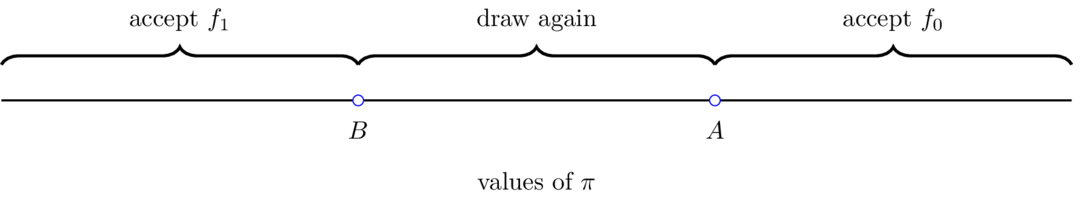
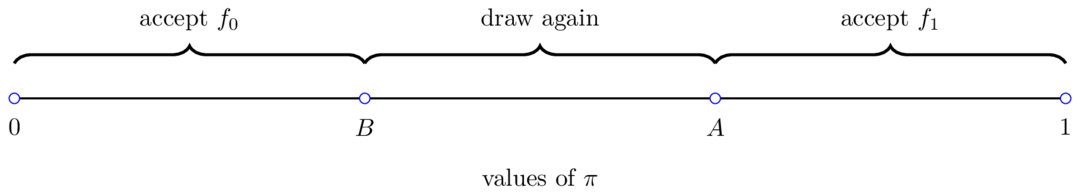
update

diff --git a/lectures/_static/lecture_specific/wald_friedman_2/wald_dec_rule.tex b/lectures/_static/lecture_specific/wald_friedman_2/wald_dec_rule.tex
@@ -17,15 +17,19 @@
     \draw[thick] (0, 0)  -- (3, 0) node[below] {};
     %curly bracket
     \draw [decorate, very thick] (s0) -- (s1)
-        node [midway, anchor=south,  outer sep=10pt]{accept $f_1$};
+        node [midway, anchor=south,  outer sep=10pt]{accept $f_0$};
     \draw [decorate, very thick] (s1) -- (s2)
         node [midway, anchor=south, outer sep=10pt]{draw again};
     \draw [decorate, very thick] (s2) -- (s3)
-        node [midway, anchor=south, outer sep=10pt]{accept $f_0$};
-    \node[circle, draw, thin, blue, fill=white!10, scale=0.45] at (a1){};
-    \node[below, outer sep=5pt] at (a1){$B$};
-    \node[circle, draw, thin, blue, fill=white!10, scale=0.45] at (a2){};
-    \node[below, outer sep=5pt] at (a2){$A$};
+        node [midway, anchor=south, outer sep=10pt]{accept $f_1$};
+        \node[circle, draw, thin, blue, fill=white!10, scale=0.45] at (a0){};
+        \node[below, outer sep=5pt] at (a0){$0$};
+        \node[circle, draw, thin, blue, fill=white!10, scale=0.45] at (a1){};
+        \node[below, outer sep=5pt] at (a1){$B$};
+        \node[circle, draw, thin, blue, fill=white!10, scale=0.45] at (a2){};
+        \node[below, outer sep=5pt] at (a2){$A$};
+        \node[circle, draw, thin, blue, fill=white!10, scale=0.45] at (a3){};
+        \node[below, outer sep=5pt] at (a3){$1$};
     \node[below, outer sep=25pt] at (1.5, 0){values of $\pi$};
 \end{tikzpicture}
 

diff --git a/lectures/wald_friedman_2.md b/lectures/wald_friedman_2.md
@@ -102,19 +102,19 @@ The decision maker begins  with a prior probability
 
 $$
 \pi_{-1} =
-\mathbb P \{ f = f_0 \mid \textrm{ no observations} \} \in (0, 1)
+\mathbb P \{ f = f_1 \mid \textrm{ no observations} \} \in (0, 1)
 $$
 
-After observing $k+1$ observations $z_k, z_{k-1}, \ldots, z_0$, he updates his personal probability that the observations are described by distribution $f_0$  to
+After observing $k+1$ observations $z_k, z_{k-1}, \ldots, z_0$, he updates his personal probability that the observations are described by distribution $f_1$  to
 
 $$
-\pi_k = \mathbb P \{ f = f_0 \mid z_k, z_{k-1}, \ldots, z_0 \}
+\pi_k = \mathbb P \{ f = f_1 \mid z_k, z_{k-1}, \ldots, z_0 \}
 $$
 
 which is calculated recursively by applying Bayes' law:
 
 $$
-\pi_{k+1} = \frac{ \pi_k f_0(z_{k+1})}{ \pi_k f_0(z_{k+1}) + (1-\pi_k) f_1 (z_{k+1}) },
+\pi_{k+1} = \frac{ \pi_k f_1(z_{k+1})}{ (1-\pi_k) f_0(z_{k+1}) + \pi_k f_1 (z_{k+1}) },
 \quad k = -1, 0, 1, \ldots
 $$
 
@@ -122,11 +122,11 @@ After observing $z_k, z_{k-1}, \ldots, z_0$, the decision-maker believes
 that $z_{k+1}$ has probability distribution
 
 $$
-f_{{\pi}_k} (v) = \pi_k f_0(v) + (1-\pi_k) f_1 (v) ,
+f_{{\pi}_k} (v) = (1-\pi_k) f_0(v) + \pi_k f_1 (v) ,
 $$
 
 which  is a mixture of distributions $f_0$ and $f_1$, with the weight
-on $f_0$ being the posterior probability that $f = f_0$ [^f1].
+on $f_1$ being the posterior probability that $f = f_1$ [^f1].
 
 To  illustrate such a distribution, let's inspect some mixtures of beta distributions.
 
@@ -160,7 +160,7 @@ axes[0].plot(grid, f1(grid), lw=2, label="$f_1$")
 
 axes[1].set_title("Mixtures")
 for π in 0.25, 0.5, 0.75:
-    y = π * f0(grid) + (1 - π) * f1(grid)
+    y = (1 - π) * f0(grid) + π * f1(grid)
     axes[1].plot(y, lw=2, label=fr"$\pi_k$ = {π}")
 
 for ax in axes:
@@ -212,9 +212,9 @@ Before proceeding,  let's try to guess what an optimal decision rule might look 
 
 Suppose at some given point in time that $\pi$ is close to 1.
 
-Then our prior beliefs and the evidence so far point strongly to $f = f_0$.
+Then our prior beliefs and the evidence so far point strongly to $f = f_1$.
 
-If, on the other hand, $\pi$ is close to 0, then $f = f_1$ is strongly favored.
+If, on the other hand, $\pi$ is close to 0, then $f = f_0$ is strongly favored.
 
 Finally, if $\pi$ is in the middle of the interval $[0, 1]$, then we are confronted with more uncertainty.
 
@@ -243,7 +243,7 @@ With some thought, you will agree that $J$ should satisfy the Bellman equation
 J(\pi) =
     \min
     \left\{
-        (1-\pi) L_0, \; \pi L_1, \;
+        \pi L_0, \; (1-\pi) L_1, \;
         c + \mathbb E [ J (\pi') ]
     \right\}
 ```
@@ -251,13 +251,13 @@ J(\pi) =
 where $\pi'$ is the random variable defined by Bayes' Law
 
 $$
-\pi' = \kappa(z', \pi) = \frac{ \pi f_0(z')}{ \pi f_0(z') + (1-\pi) f_1 (z') }
+\pi' = \kappa(z', \pi) = \frac{ \pi f_1(z')}{ (1-\pi) f_0(z') + \pi f_1 (z') }
 $$
 
 when $\pi$ is fixed and $z'$ is drawn from the current best guess, which is the distribution $f$ defined by
 
 $$
-f_{\pi}(v) = \pi f_0(v) + (1-\pi) f_1 (v)
+f_{\pi}(v) = (1-\pi) f_0(v) + \pi f_1 (v)
 $$
 
 In the Bellman equation, minimization is over three actions:
@@ -272,14 +272,14 @@ We can represent the  Bellman equation as
 :label: optdec
 
 J(\pi) =
-\min \left\{ (1-\pi) L_0, \; \pi L_1, \; h(\pi) \right\}
+\min \left\{ \pi L_0, \; (1-\pi) L_1, \; h(\pi) \right\}
 ```
 
 where $\pi \in [0,1]$ and
 
-- $(1-\pi) L_0$ is the expected loss associated with accepting
+- $\pi L_0$ is the expected loss associated with accepting
   $f_0$ (i.e., the cost of making a type II error).
-- $\pi L_1$ is the expected loss associated with accepting
+- $(1-\pi) L_1$ is the expected loss associated with accepting
   $f_1$ (i.e., the cost of making a type I error).
 - $h(\pi) :=  c + \mathbb E [J(\pi')]$; this is the continuation value; i.e.,
   the expected cost associated with drawing one more $z$.
@@ -287,21 +287,21 @@ where $\pi \in [0,1]$ and
 The optimal decision rule is characterized by two numbers $A, B \in (0,1) \times (0,1)$ that satisfy
 
 $$
-(1- \pi) L_0 < \min \{ \pi L_1, c + \mathbb E [J(\pi')] \}  \textrm { if } \pi \geq A
+(1- \pi) L_1 < \min \{ \pi L_0, c + \mathbb E [J(\pi')] \}  \textrm { if } \pi \leq B
 $$
 
 and
 
 $$
-\pi L_1 < \min \{ (1-\pi) L_0,  c + \mathbb E [J(\pi')] \} \textrm { if } \pi \leq B
+\pi L_0 < \min \{ (1-\pi) L_1,  c + \mathbb E [J(\pi')] \} \textrm { if } \pi \geq A
 $$
 
 The optimal decision rule is then
 
 $$
 \begin{aligned}
-\textrm { accept } f=f_0 \textrm{ if } \pi \geq A \\
-\textrm { accept } f=f_1 \textrm{ if } \pi \leq B \\
+\textrm { accept } f=f_1 \textrm{ if } \pi \geq A \\
+\textrm { accept } f=f_0 \textrm{ if } \pi \leq B \\
 \textrm { draw another }  z \textrm{ if }  B \leq \pi \leq A
 \end{aligned}
 $$
@@ -316,8 +316,8 @@ To make our computations manageable, using {eq}`optdec`, we can write the contin
 
 \begin{aligned}
 h(\pi) &= c + \mathbb E [J(\pi')] \\
-&= c + \mathbb E_{\pi'} \min \{ (1 - \pi') L_0, \pi' L_1, h(\pi') \} \\
-&= c + \int \min \{ (1 - \kappa(z', \pi) ) L_0, \kappa(z', \pi)  L_1, h(\kappa(z', \pi) ) \} f_\pi (z') dz'
+&= c + \mathbb E_{\pi'} \min \{ \pi' L_0, (1 - \pi') L_1, h(\pi') \} \\
+&= c + \int \min \{ \kappa(z', \pi) L_0, (1 - \kappa(z', \pi) ) L_1, h(\kappa(z', \pi) ) \} f_\pi (z') dz'
 \end{aligned}
 ```
 
@@ -327,7 +327,7 @@ The equality
 :label: funceq
 
 h(\pi) =
-c + \int \min \{ (1 - \kappa(z', \pi) ) L_0, \kappa(z', \pi)  L_1, h(\kappa(z', \pi) ) \} f_\pi (z') dz'
+c + \int \min \{ \kappa(z', \pi) L_0, (1 - \kappa(z', \pi) ) L_1, h(\kappa(z', \pi) ) \} f_\pi (z') dz'
 ```
 
 is a **functional equation** in an unknown function  $h$.
@@ -342,7 +342,7 @@ Thus, we iterate with an operator $Q$, where
 
 $$
 Q h(\pi) =
-c + \int \min \{ (1 - \kappa(z', \pi) ) L_0, \kappa(z', \pi)  L_1, h(\kappa(z', \pi) ) \} f_\pi (z') dz'
+c + \int \min \{ \kappa(z', \pi) L_0, (1 - \kappa(z', \pi) ) L_1, h(\kappa(z', \pi) ) \} f_\pi (z') dz'
 $$
 
 ## Implementation
@@ -410,8 +410,8 @@ class WaldFriedman:
 
         f0, f1 = self.f0, self.f1
 
-        π_f0, π_f1 = π * f0(z), (1 - π) * f1(z)
-        π_new = π_f0 / (π_f0 + π_f1)
+        π_f0, π_f1 = (1 - π) * f0(z), π * f1(z)
+        π_new = π_f1 / (π_f0 + π_f1)
 
         return π_new
 ```
@@ -444,12 +444,12 @@ def Q(h, wf):
         integral_f0, integral_f1 = 0, 0
         for m in range(mc_size):
             π_0 = κ(z0[m], π)  # Draw z from f0 and update π
-            integral_f0 += min((1 - π_0) * L0, π_0 * L1, h_func(π_0))
+            integral_f0 += min(π_0 * L0, (1 - π_0) * L1, h_func(π_0))
 
             π_1 = κ(z1[m], π)  # Draw z from f1 and update π
-            integral_f1 += min((1 - π_1) * L0, π_1 * L1, h_func(π_1))
+            integral_f1 += min(π_1 * L0, (1 - π_1) * L1, h_func(π_1))
 
-        integral = (π * integral_f0 + (1 - π) * integral_f1) / mc_size
+        integral = ((1 - π) * integral_f0 + π * integral_f1) / mc_size
 
         h_new[i] = c + integral
 
@@ -527,23 +527,31 @@ def find_cutoff_rule(wf, h):
     L0, L1 = wf.L0, wf.L1
 
     # Evaluate cost at all points on grid for choosing a model
-    payoff_f0 = (1 - π_grid) * L0
-    payoff_f1 = π_grid * L1
-
-    # The cutoff points can be found by differencing these costs with
-    # The Bellman equation (J is always less than or equal to p_c_i)
-    B = π_grid[np.searchsorted(
-                              payoff_f1 - np.minimum(h, payoff_f0),
-                              1e-10) - 1]
-    A = π_grid[np.searchsorted(
-                              np.minimum(h, payoff_f1) - payoff_f0,
-                              1e-10) - 1]
+    cost_f0 = π_grid * L0           # Cost of choosing f0 when π = P(f=f0)
+    cost_f1 = (1 - π_grid) * L1     # Cost of choosing f1 when π = P(f=f1)
+    
+    # Find B: largest π where cost_f0 ≤ min(cost_f1, h)
+    optimal_cost = np.minimum(np.minimum(cost_f0, cost_f1), h)
+    choose_f0 = (cost_f0 <= cost_f1) & (cost_f0 <= h)
+    
+    if np.any(choose_f0):
+        B = π_grid[choose_f0][-1]  # Last point where we choose f0
+    else:
+        assert False, "No point where we choose f0"
+    
+    # Find A: smallest π where cost_f1 ≤ min(cost_f0, h)  
+    choose_f1 = (cost_f1 <= cost_f0) & (cost_f1 <= h)
+    
+    if np.any(choose_f1):
+        A = π_grid[choose_f1][0]  # First point where we choose f1
+    else:
+        assert False, "No point where we choose f1"
 
     return (B, A)
 
 B, A = find_cutoff_rule(wf, h_star)
-cost_L0 = (1 - wf.π_grid) * wf.L0
-cost_L1 = wf.π_grid * wf.L1
+cost_L0 = wf.π_grid * wf.L0
+cost_L1 = (1 - wf.π_grid) * wf.L1
 
 fig, ax = plt.subplots(figsize=(10, 6))
 
@@ -557,8 +565,8 @@ ax.plot(wf.π_grid,
 ax.annotate(r"$B$", xy=(B + 0.01, 0.5), fontsize=14)
 ax.annotate(r"$A$", xy=(A + 0.01, 0.5), fontsize=14)
 
-plt.vlines(B, 0, B * wf.L1, linestyle="--")
-plt.vlines(A, 0, (1 - A) * wf.L0, linestyle="--")
+plt.vlines(B, 0, (1 - B) * wf.L1, linestyle="--")
+plt.vlines(A, 0, A * wf.L0, linestyle="--")
 
 ax.set(xlim=(0, 1), ylim=(0, 0.5 * max(wf.L0, wf.L1)), ylabel="cost",
        xlabel=r"$\pi$", title=r"Cost function $J(\pi)$")
@@ -567,17 +575,17 @@ plt.legend(borderpad=1.1)
 plt.show()
 ```
 
-The cost function $J$ equals $\pi L_1$ for $\pi \leq B$, and $(1-\pi )L_0$ for $\pi
+The cost function $J$ equals $(1-\pi) L_1$ for $\pi \leq B$, and $\pi L_0$ for $\pi
 \geq A$.
 
-The slopes of the two linear pieces of the cost   function $J(\pi)$ are determined by $L_1$
-and $- L_0$.
+The slopes of the two linear pieces of the cost   function $J(\pi)$ are determined by $-L_1$
+and $L_0$.
 
 The cost function $J$ is smooth in the interior region, where the posterior
-probability assigned to $f_0$ is in the indecisive region $\pi \in (B, A)$.
+probability assigned to $f_1$ is in the indecisive region $\pi \in (B, A)$.
 
 The decision-maker continues to sample until the probability that he attaches to
-model $f_0$ falls below $B$ or above $A$.
+model $f_1$ falls below $B$ or above $A$.
 
 ### Simulations
 
@@ -623,10 +631,10 @@ def simulate(wf, true_dist, h_star, π_0=0.5):
         π = κ(z, π)
         if π < B:
             decision_made = True
-            decision = 1
+            decision = 0
         elif π > A:
             decision_made = True
-            decision = 0
+            decision = 1
 
     if true_dist == "f0":
         if decision == 0:

diff --git a/lectures/wald_friedman.md b/lectures/wald_friedman.md
@@ -813,7 +813,7 @@ for i, idx in enumerate(selected_indices):
     col = i % 3
     
     a0, b0, a1, b1 = param_list[idx]
-    kl_div = js_dists[idx]
+    js_dist = js_dists[idx]
     mean_time = mean_stopping_times[idx]
     
     # Plot the distributions
@@ -827,14 +827,12 @@ for i, idx in enumerate(selected_indices):
                         np.minimum(f0_dist.pdf(z_grid), f1_dist.pdf(z_grid)), 
                         alpha=0.3, color='purple')
     
-    axes[row, col].set_title(f'KL div: {kl_div:.3f}\nMean time: {mean_time:.1f}', fontsize=12)
+    axes[row, col].set_title(f'JS dist: {js_dist:.3f}\nMean time: {mean_time:.1f}', fontsize=12)
     axes[row, col].set_xlabel('z', fontsize=10)
     if i == 0:
-        axes[row, col].set_ylabel('Density', fontsize=10)
+        axes[row, col].set_ylabel('density', fontsize=10)
         axes[row, col].legend(fontsize=10)
 
-# Hide the last subplot since we only have 5 plots
-axes[1, 2].axis('off')
 
 plt.tight_layout()
 plt.show()
